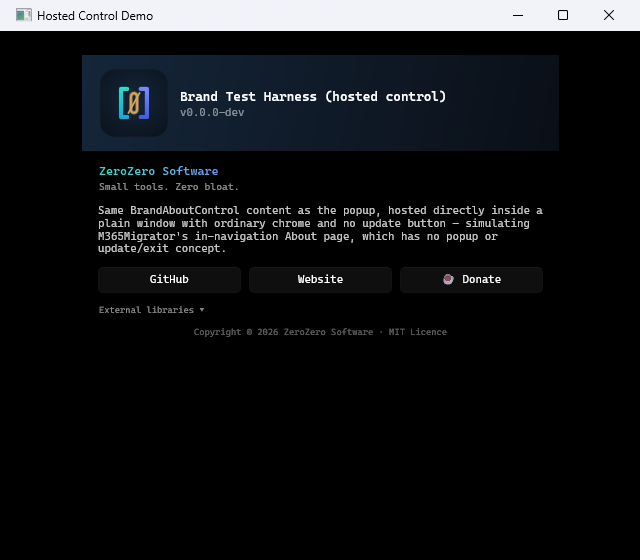
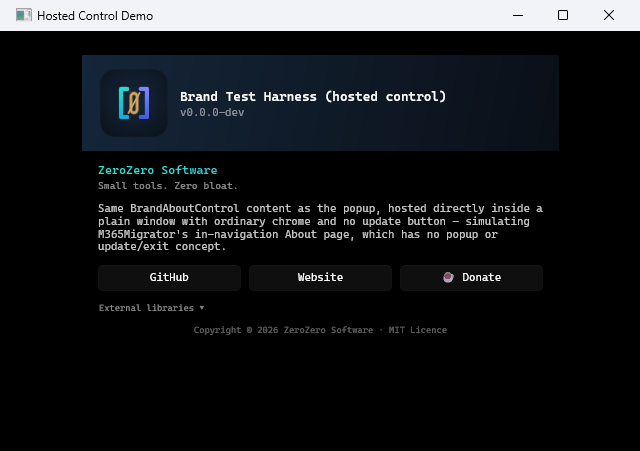
Fix review findings in the BrandAboutControl extraction
- Drop the wordmark's click-through to the website: it duplicated the
  new "Website" link button doing the exact same thing. The wordmark
  is now plain text, matching the bespoke layout it's meant to match
  (company/tagline as static text, only the three link buttons act).
- Fix the capture script's Add-Type block: an inline `out uint`
  declaration is C# 7 syntax, but Add-Type's CodeDom compiler only
  accepts older C#, so it failed to compile at all. Split into a
  separate declaration.
- Size the hosted-control demo window from the control's actual
  measured DesiredSize instead of a guessed constant, which left a
  wall of dead background below the content (560px window for ~350px
  of real content).

Re-verified both harness windows on screen after these fixes.

diff --git a/src/ZeroZero.Brand.WinUI/BrandAboutControl.xaml b/src/ZeroZero.Brand.WinUI/BrandAboutControl.xaml
@@ -93,25 +93,23 @@
         <!-- ── Body (inherits the host's theme via ThemeResource brushes) ─────────────────── -->
         <StackPanel Padding="16,12,16,16" Spacing="10">
 
-            <!-- Studio wordmark: teal→purple gradient text, clickable through to the studio site. -->
-            <Button x:Name="StudioLinkBtn"
-                    Background="Transparent" BorderBrush="Transparent"
-                    Padding="0" HorizontalAlignment="Left" HorizontalContentAlignment="Left">
-                <StackPanel Spacing="2">
-                    <TextBlock FontSize="12" FontWeight="SemiBold">
-                        <TextBlock.Foreground>
-                            <LinearGradientBrush StartPoint="0,0.5" EndPoint="1,0.5">
-                                <GradientStop Color="#27E0C8" Offset="0"/>
-                                <GradientStop Color="#7B8CFF" Offset="1"/>
-                            </LinearGradientBrush>
-                        </TextBlock.Foreground>
-                        ZeroZero Software
-                    </TextBlock>
-                    <TextBlock Text="Small tools. Zero bloat."
-                               FontSize="10"
-                               Foreground="{ThemeResource TextFillColorTertiaryBrush}"/>
-                </StackPanel>
-            </Button>
+            <!-- Studio wordmark: teal→purple gradient text. Plain (non-interactive) text, not a
+                 button — the "Website" link below already covers that action; making the wordmark
+                 clickable too would just be a second control doing the exact same thing. -->
+            <StackPanel Spacing="2">
+                <TextBlock FontSize="12" FontWeight="SemiBold">
+                    <TextBlock.Foreground>
+                        <LinearGradientBrush StartPoint="0,0.5" EndPoint="1,0.5">
+                            <GradientStop Color="#27E0C8" Offset="0"/>
+                            <GradientStop Color="#7B8CFF" Offset="1"/>
+                        </LinearGradientBrush>
+                    </TextBlock.Foreground>
+                    ZeroZero Software
+                </TextBlock>
+                <TextBlock Text="Small tools. Zero bloat."
+                           FontSize="10"
+                           Foreground="{ThemeResource TextFillColorTertiaryBrush}"/>
+            </StackPanel>
 
             <!-- App description -->
             <TextBlock x:Name="DescriptionText"

diff --git a/src/ZeroZero.Brand.WinUI.TestHarness/HostedControlWindow.xaml.cs b/src/ZeroZero.Brand.WinUI.TestHarness/HostedControlWindow.xaml.cs
@@ -18,9 +18,13 @@ public sealed partial class HostedControlWindow : Window
         InitializeComponent();
         Title = "Hosted Control Demo";
         AboutControl.SetInfo(info);
-        // Sized close to the control's actual content height (measured on screen) rather than an
-        // arbitrary tall default — a real host page would have its own surrounding nav chrome, but
-        // an oversized demo window here just reads as a rendering bug (a wall of dead background).
-        AppWindow.Resize(new SizeInt32(640, 560));
+
+        // Measure the control's real desired height and size the window to fit it (plus a small
+        // margin for the title bar and the ScrollViewer's own padding) instead of a guessed
+        // constant — a mismatched constant left a wall of dead background below the content, which
+        // reads as a rendering bug in a demo whose whole point is showing the control's real size.
+        AboutControl.Measure(new Windows.Foundation.Size(480, double.PositiveInfinity));
+        int contentHeight = (int)Math.Ceiling(AboutControl.DesiredSize.Height);
+        AppWindow.Resize(new SizeInt32(640, contentHeight + 96));
     }
 }

diff --git a/src/ZeroZero.Brand.WinUI/BrandAboutControl.xaml.cs b/src/ZeroZero.Brand.WinUI/BrandAboutControl.xaml.cs
@@ -54,7 +54,6 @@ public sealed partial class BrandAboutControl : UserControl
         // Year is computed, not a literal, so this doesn't go stale like a hard-coded one would.
         FooterText.Text      = $"Copyright © {DateTime.UtcNow.Year} {CoreBrand.StudioName} · MIT Licence";
 
-        StudioLinkBtn.Click += (_, _) => Open(CoreBrand.WebsiteUrl);
         RepoBtn.Click       += (_, _) => Open(info.RepoUrl);
         SiteBtn.Click       += (_, _) => Open(CoreBrand.WebsiteUrl);
         DonateBtn.Click     += (_, _) => Open(CoreBrand.BuyMeACoffeeUrl);